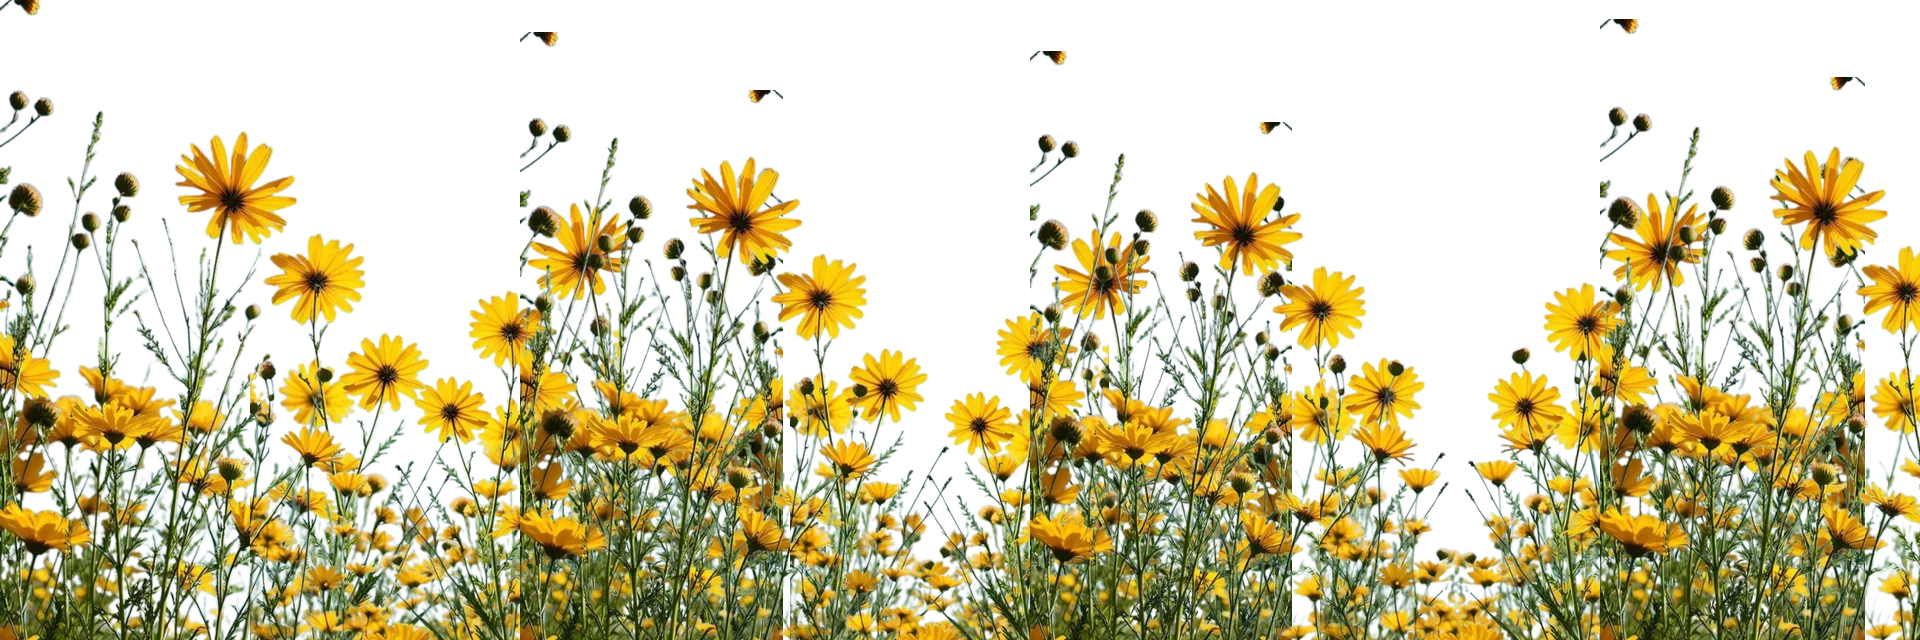
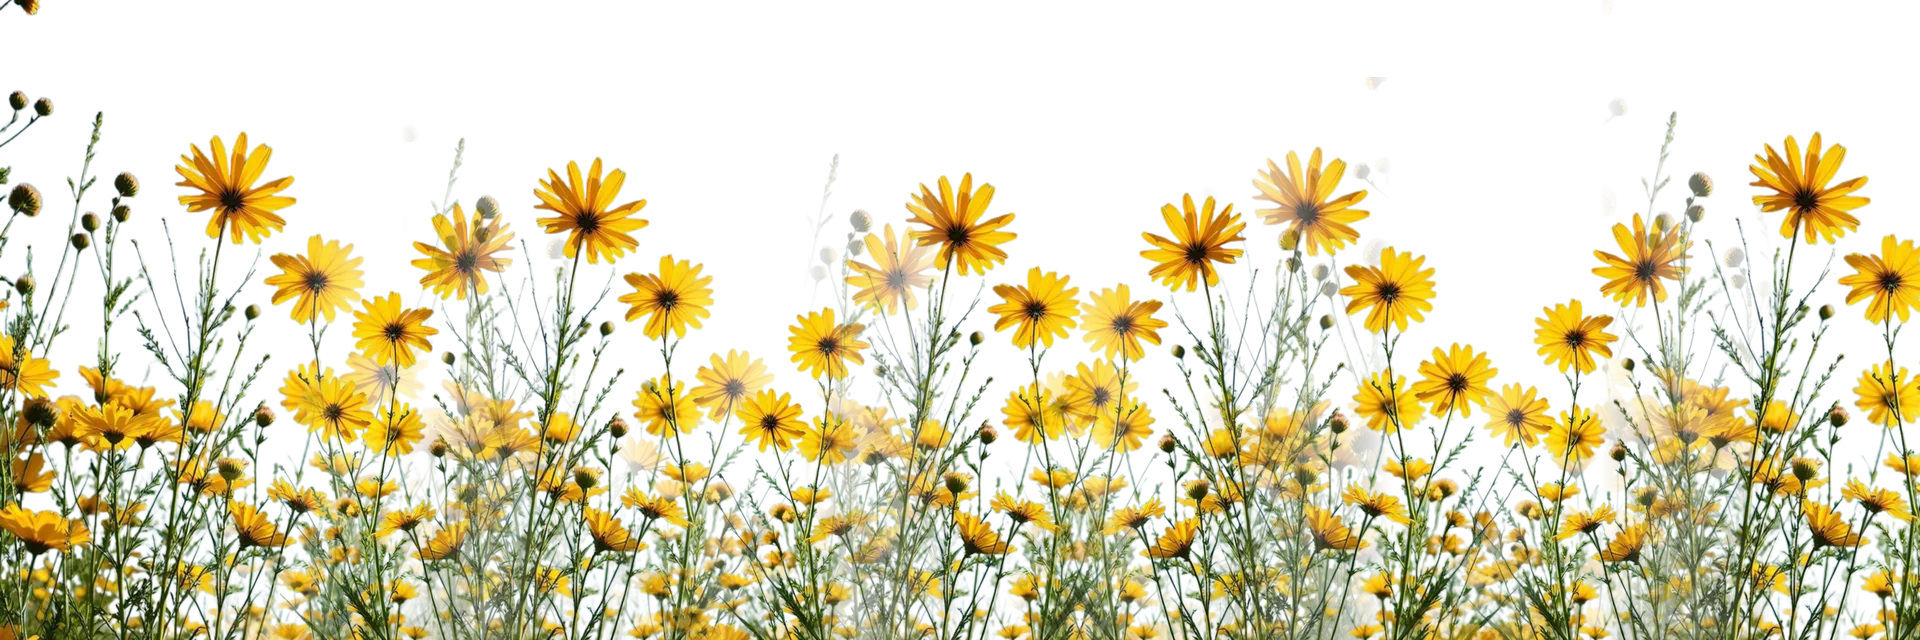
fix: kill the tile seams in the closing field, and bring the figure in from the edge
On a wide screen the band showed rectangular blocks. The field is full of
semi-transparent out-of-focus background between the flowers, so wherever two
copies overlapped that haze stacked and doubled in density, and each copy's
bounding box drew the join as a hard vertical line. Every copy now fades out
across its own vertical edges, so overlaps cross-fade instead of accumulating.
The band's two outermost edges keep hard cuts: they fall outside the viewport
once the image covers the width, and fading them would thin the field to nothing
exactly where the screen cuts it.

That alone left a regular scalloped wave along the skyline. Flipping and
rescaling one identical crop still puts the same tall flowers at the same
relative spot in every copy, so each copy is now cut from a different window of
the source and contributes a different skyline. Narrower copies need tighter
spacing to keep every neighbouring pair overlapping by more than the fade
distance, otherwise the seam returns as a gap rather than a ridge.

The figure was pinned to the viewport edge, which on a wide monitor marooned her
out in the margin with nothing around her. She now aligns to the same column the
text uses, so she stands at the end of a line the eye is already following.

diff --git a/app/components/Closing.tsx b/app/components/Closing.tsx
@@ -121,17 +121,25 @@ export function Closing() {
           {/* She stands behind the band so the front row of flowers crosses her
               skirt, which is what puts her in the field rather than in front of
               a picture of one. Hidden on narrow screens, where she would sit on
-              top of the copy rather than beside it. */}
-          <Image
-            src="/art/woman.webp"
-            alt=""
-            width={660}
-            height={1150}
-            // Sized to rise only a little above the field. Taller and she
-            // reaches into the footer copy, where she painted straight over the
-            // social links.
-            className="pointer-events-none absolute right-[4%] bottom-[2rem] z-0 hidden h-[clamp(11rem,21vw,17rem)] w-auto md:block"
-          />
+              top of the copy rather than beside it.
+              The wrapper is shell-width on purpose: pinned to the viewport edge
+              she ends up marooned out in the margin on a wide monitor, far from
+              anything else on the page. Aligning her to the same column the text
+              uses puts her at the end of a line the eye is already following. */}
+          <div className="pointer-events-none absolute inset-0 z-0 hidden md:block">
+            <div className="shell relative h-full">
+              <Image
+                src="/art/woman.webp"
+                alt=""
+                width={660}
+                height={1150}
+                // Sized to rise only a little above the field. Taller and she
+                // reaches into the footer copy, where she painted straight over
+                // the social links.
+                className="absolute right-0 bottom-[2rem] h-[clamp(12rem,20vw,18rem)] w-auto"
+              />
+            </div>
+          </div>
 
           <div className="relative z-10 h-[clamp(8rem,20vw,15rem)] w-full">
             <Image
